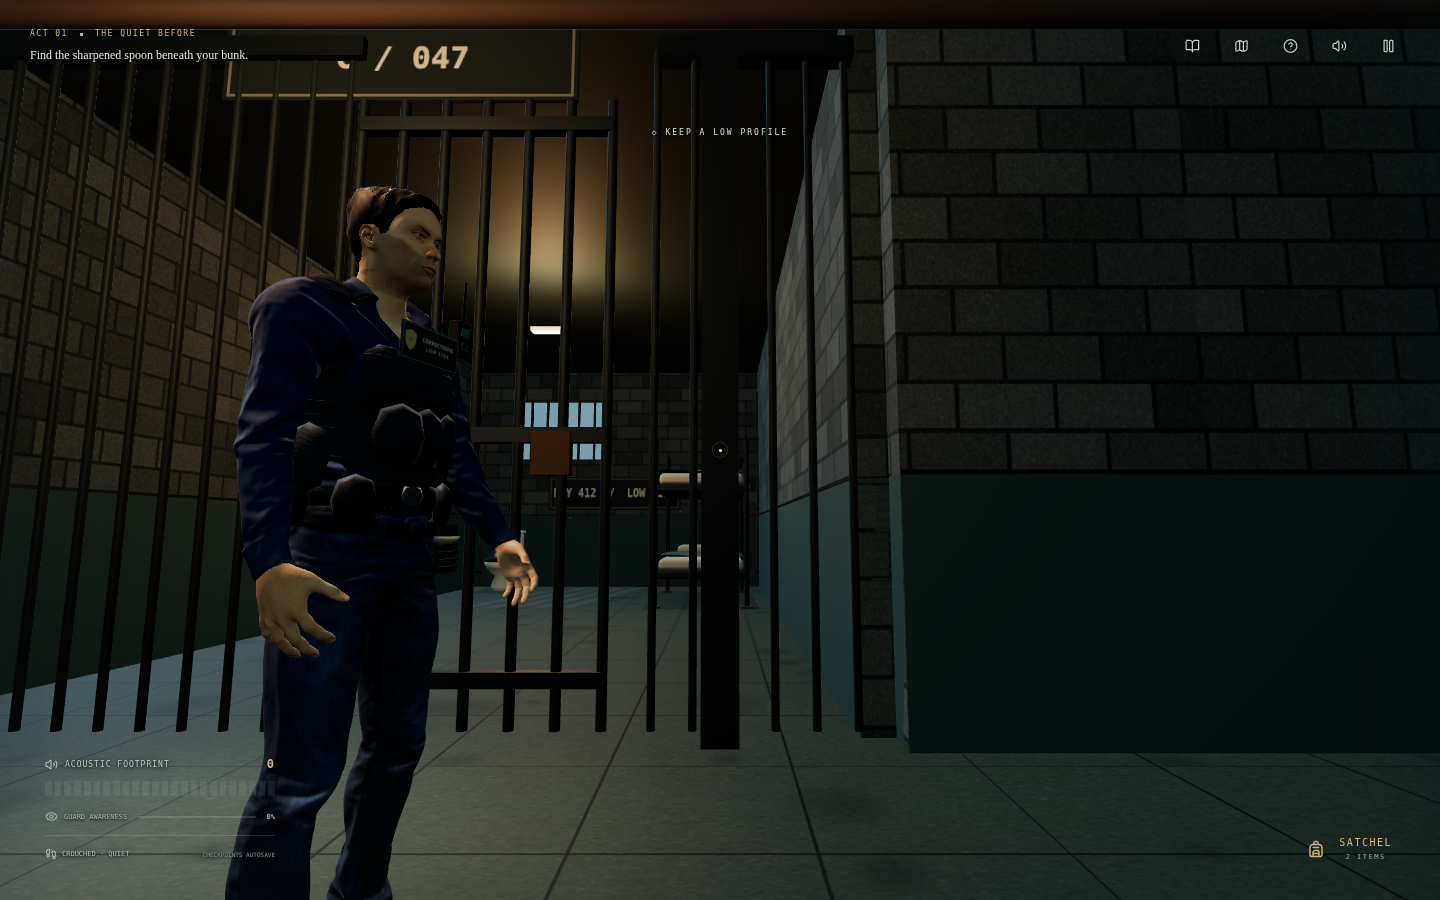
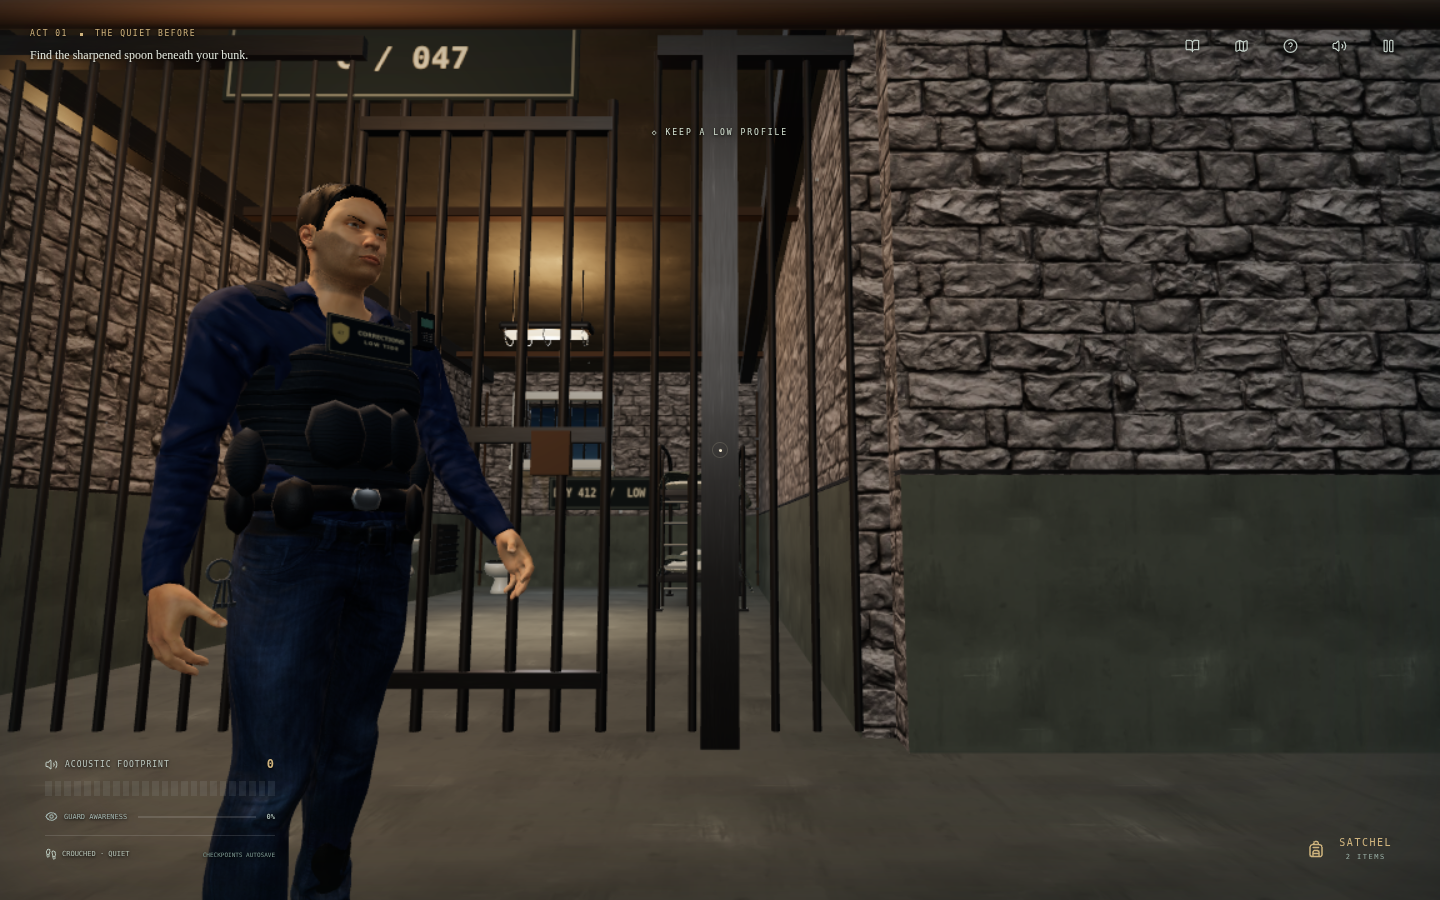
Publish current v0.4.0 screenshots and refresh README gallery

diff --git a/README.md b/README.md
@@ -12,9 +12,9 @@
 
 An original first-person prison escape · Acoustic stealth · Three endings
 
-**[↓ DOWNLOAD THE LATEST OFFLINE GAME — v0.4.0 ZIP](https://github.com/Rememberfrxst/Hirodora/raw/refs/heads/codex/cell47-environment-overhaul/downloads/Hirodora-0.4.0-offline.zip)**
+**[↓ DOWNLOAD THE LATEST OFFLINE GAME — v0.4.0 ZIP](https://github.com/Rememberfrxst/Hirodora/raw/refs/heads/main/downloads/Hirodora-0.4.0-offline.zip)**
 
-[Single-file HTML](https://github.com/Rememberfrxst/Hirodora/raw/refs/heads/codex/cell47-environment-overhaul/downloads/Hirodora-0.4.0.html) · [Mobile setup](#play-on-mobile) · [Checksums](downloads/latest.json)
+[Single-file HTML](https://github.com/Rememberfrxst/Hirodora/raw/refs/heads/main/downloads/Hirodora-0.4.0.html) · [Mobile setup](#play-on-mobile) · [Checksums](downloads/latest.json)
 
 [The experience](#the-experience) · [Play on mobile](#play-on-mobile) · [Development](#development) · [Quality](#quality-and-release-status)
 
@@ -24,9 +24,16 @@ An original first-person prison escape · Acoustic stealth · Three endings
 
 ## Cell 47 environment preview
 
-The feature branch now includes authored Blender/GLB cell furniture, sourced PBR masonry/metal/fabric maps, real window apertures and a window shadow light. [Sources, licenses, matched renders and remaining work](docs/ENVIRONMENT-ASSETS.md).
+Version 0.4.0 includes authored Blender/GLB cell furniture, sourced PBR masonry/metal/fabric maps, real window apertures and a window shadow light. [Sources, licenses, matched renders and remaining work](docs/ENVIRONMENT-ASSETS.md).
 
 ![Cell 47: 5a21adc baseline on the left, environment preview on the right](docs/screenshots/environment/comparison.png)
+
+<table>
+<tr><td width="50%"><img src="docs/screenshots/environment/after/bunk.png" alt="Current GLB bunk with woven blanket, rounded bedding and welded frame" /></td><td width="50%"><img src="docs/screenshots/environment/after/fixtures.png" alt="Current hollow toilet bowl, wall-mounted sink and exposed plumbing" /></td></tr>
+<tr><td align="center"><sub>CELL 47 · BUNK AND FABRIC</sub></td><td align="center"><sub>CELL 47 · SANITARY FIXTURES</sub></td></tr>
+<tr><td><img src="docs/screenshots/environment/after/window-ceiling.png" alt="Recessed barred window and textured ceiling" /></td><td><img src="docs/screenshots/environment/after/corridor.png" alt="Prison corridor with the updated material and lighting system" /></td></tr>
+<tr><td align="center"><sub>WINDOW · REVEALS AND CEILING</sub></td><td align="center"><sub>BLOCK C · CORRIDOR</sub></td></tr>
+</table>
 
 Dedicated concrete scans remain blocked at the libraries' download hosts; the current painted/floor finish adapts the documented worn-surface maps. This is an environment preview, with physical-phone QA still open.
 
@@ -63,7 +70,7 @@ Find the sharpened spoon. Open the service duct. Earn Boulder’s respect at the
 
 <img src="docs/screenshots/mobile-rotate.png" width="260" alt="Hirodora portrait rotate screen pauses the game until the phone is horizontal" />
 
-The older gallery above shows the v0.3.1 baseline. The v0.4.0 environment comparison and detailed captures are linked above. Front/side/detail showcases stage the camera and pose inside the real prison; the gameplay shot runs guard AI. The old primitive patrol bodies are replaced by embedded, skinned GLBs with detailed fingers, eyes, short hair, authored clothing and textures. Radio, identification, handcuffs and keys follow their attachment bones. [Sources, licenses and implementation](docs/GUARD-ASSETS.md).
+The gallery shows actual v0.4.0 browser renders. Front/side/detail showcases stage the camera and pose inside the real prison; the gameplay shot runs guard AI. The matched before/after comparison uses the 5a21adc baseline. Officers use embedded, skinned GLBs with detailed fingers, eyes, short hair, authored clothing and textures. Radio, identification, handcuffs and keys follow their attachment bones. [Sources, licenses and implementation](docs/GUARD-ASSETS.md).
 
 <details><summary>Inspect the new guard face and duty uniform</summary>
 
@@ -83,7 +90,7 @@ The older gallery above shows the v0.3.1 baseline. The v0.4.0 environment compar
 
 ### Download v0.4.0 — offline edition
 
-**[Download Hirodora v0.4.0 for offline play (.zip)](https://github.com/Rememberfrxst/Hirodora/raw/refs/heads/codex/cell47-environment-overhaul/downloads/Hirodora-0.4.0-offline.zip)**
+**[Download Hirodora v0.4.0 for offline play (.zip)](https://github.com/Rememberfrxst/Hirodora/raw/refs/heads/main/downloads/Hirodora-0.4.0-offline.zip)**
 
 1. Download the ZIP from the link above and extract it in your device’s Files app.
 2. Open **`Hirodora-0.4.0.html` in a full WebGL 2 browser**, such as Chrome on Android. If your file viewer displays text or blocks scripts, choose “Open with” a full browser. File handling depends on the device/browser.
